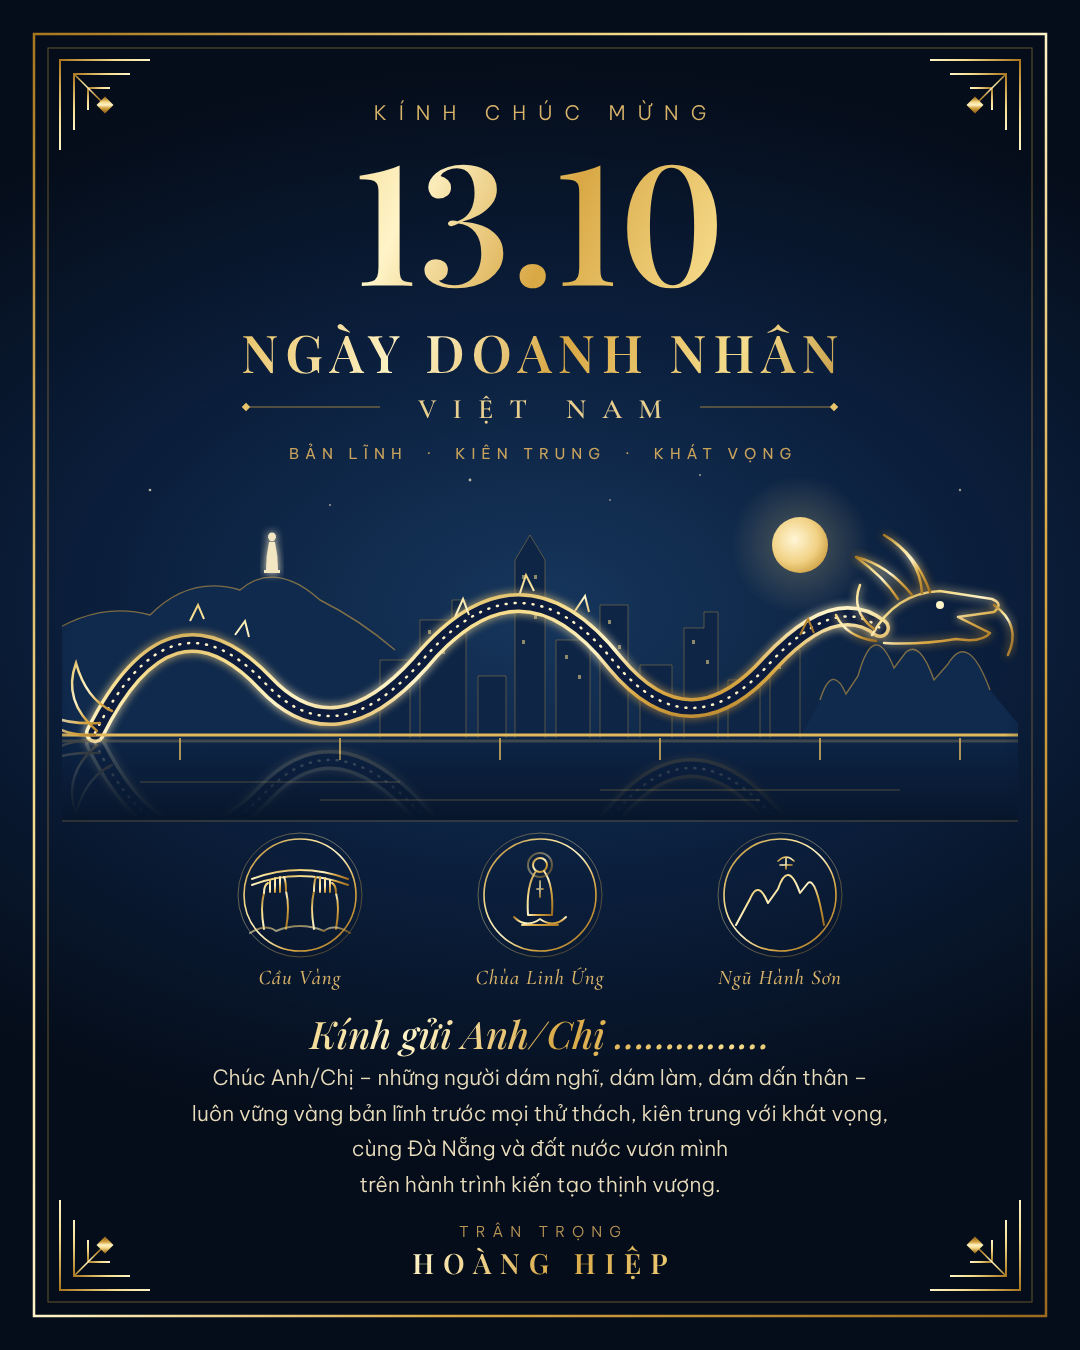
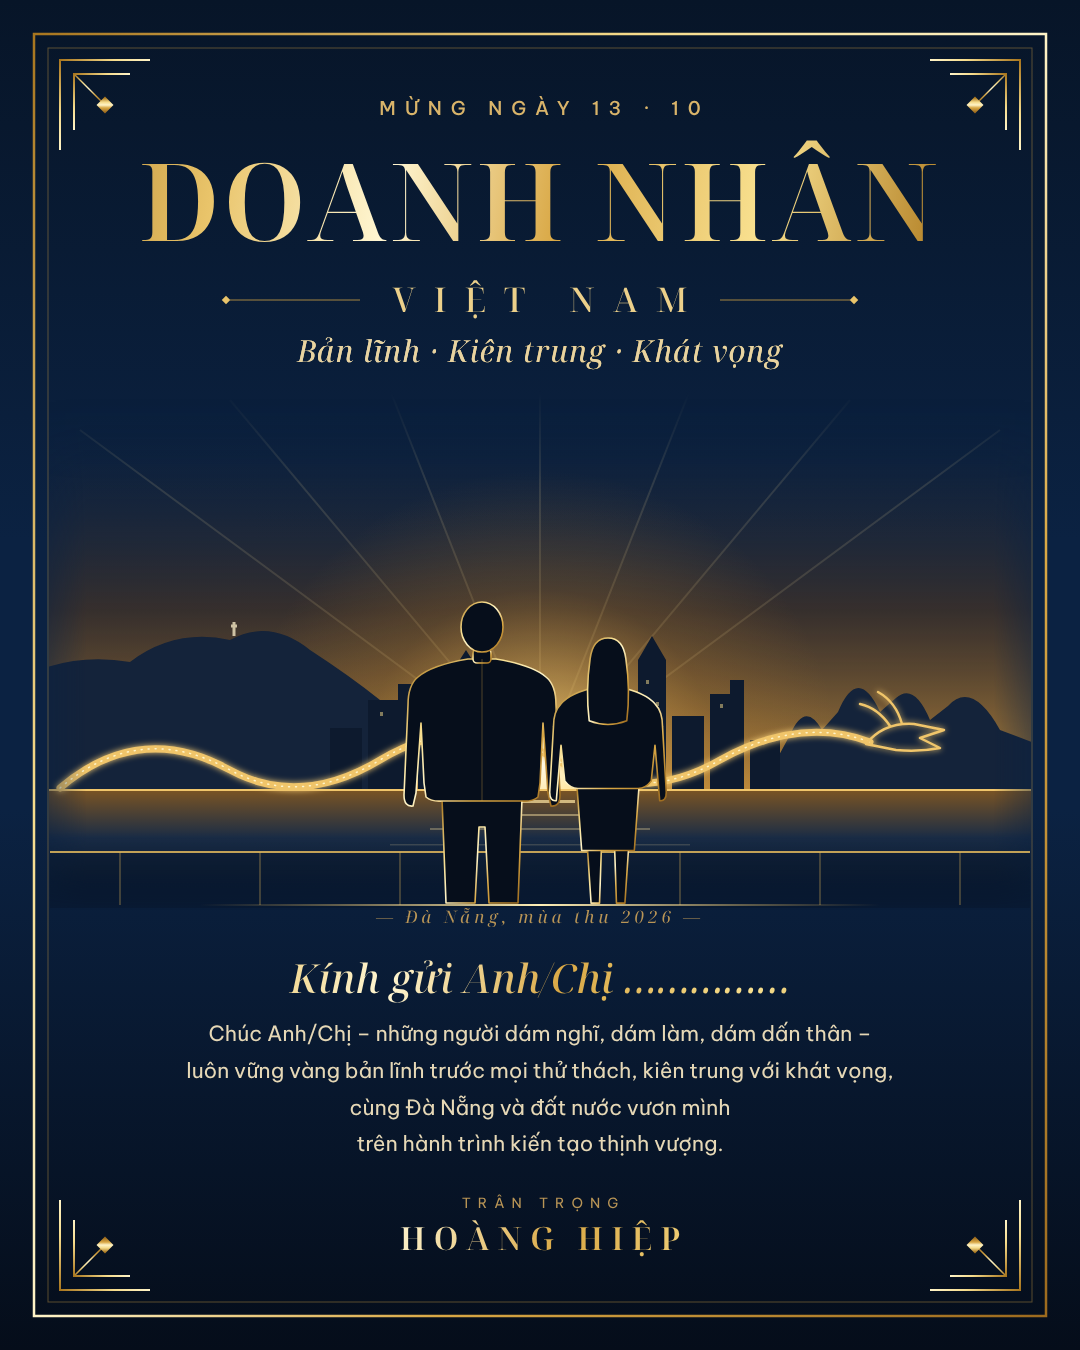
Thiệp 13/10: lấy doanh nhân làm trọng tâm, Đà Nẵng làm nền, đổi bộ chữ
Claude-Session: https://claude.ai/code/session_01Noi56VZ885EaUZ236ZNbAP

diff --git a/thiep/thiep-13-10.html b/thiep/thiep-13-10.html
@@ -1,145 +1,112 @@
 <!doctype html><html lang="vi"><head><meta charset="utf-8">
-<link href="https://fonts.googleapis.com/css2?family=Playfair+Display:ital,wght@0,500;0,600;0,700;1,500&family=Cormorant+Garamond:ital,wght@0,500;0,600;1,500&family=Be+Vietnam+Pro:wght@300;400&display=swap" rel="stylesheet">
+<link href="https://fonts.googleapis.com/css2?family=Noto+Serif+Display:ital,wght@0,500;0,600;0,700;1,400;1,500&family=Be+Vietnam+Pro:wght@400;500&display=swap" rel="stylesheet">
 <style>
 *{margin:0;padding:0;box-sizing:border-box}
-body{width:1080px;height:1350px;overflow:hidden;background:#06101f}
-.card{position:relative;width:1080px;height:1350px;overflow:hidden;color:#f4e3b2;
- background:radial-gradient(ellipse 80% 40% at 50% 45%,#16365c 0%,#0b1f3d 50%,#050d1a 100%)}
-.foil{background:linear-gradient(115deg,#9c6a1e 0%,#e9c46a 22%,#fff4c8 38%,#d9a845 52%,#f6dc8c 68%,#a8761f 85%,#e9c46a 100%);-webkit-background-clip:text;background-clip:text;color:transparent}
+body{width:1080px;height:1350px;overflow:hidden;background:#050d1a}
+.card{position:relative;width:1080px;height:1350px;overflow:hidden;color:#f4e3b2;background:linear-gradient(180deg,#071528 0%,#0b2242 40%,#0b2242 60%,#050d1a 100%)}
+.foil{background:linear-gradient(100deg,#a8761f 0%,#e9c46a 20%,#fff6d2 36%,#d9a845 52%,#f8e08f 70%,#b07d22 88%,#e9c46a 100%);-webkit-background-clip:text;background-clip:text;color:transparent}
 svg.bg{position:absolute;left:0;top:0}
 .c{position:absolute;width:100%;text-align:center}
-.kicker{top:100px;font-family:'Be Vietnam Pro',sans-serif;font-weight:300;font-size:20px;letter-spacing:12px;color:#d9b46a;padding-left:12px}
-.date{top:132px;font-family:'Playfair Display',serif;font-weight:600;font-size:168px;line-height:1;font-variant-numeric:lining-nums}
-.t1{top:318px;font-family:'Playfair Display',serif;font-weight:600;font-size:52px;letter-spacing:7px;padding-left:7px;line-height:1.3}
-.t2{top:392px;font-family:'Cormorant Garamond',serif;font-weight:600;font-size:28px;letter-spacing:16px;padding-left:16px;color:#e8cf8f}
-.slogan{top:444px;font-family:'Be Vietnam Pro',sans-serif;font-weight:400;font-size:15px;letter-spacing:6px;color:#c9a35c;padding-left:6px;white-space:pre}
-.lbl{position:absolute;width:200px;text-align:center;top:965px;font-family:'Cormorant Garamond',serif;font-style:italic;font-weight:500;font-size:21px;color:#d9b46a;letter-spacing:1px}
-.to{top:1008px;font-family:'Playfair Display',serif;font-style:italic;font-weight:500;font-size:38px}
-.msg{top:1060px;padding:0 110px;font-family:'Be Vietnam Pro',sans-serif;font-weight:300;font-size:21px;line-height:1.7;color:#e9dcbc}
-.s1{top:1222px;font-family:'Be Vietnam Pro',sans-serif;font-weight:300;font-size:15px;letter-spacing:7px;color:#b99556;padding-left:7px}
-.s2{top:1244px;font-family:'Playfair Display',serif;font-weight:600;font-size:30px;letter-spacing:9px;padding-left:9px;font-size:28px}
+.kicker{top:96px;font-family:'Be Vietnam Pro',sans-serif;font-weight:500;font-size:19px;letter-spacing:9px;color:#d9b46a;padding-left:9px}
+.h1{top:138px;font-family:'Noto Serif Display',serif;font-weight:600;font-size:108px;line-height:1.15;letter-spacing:3px}
+.h2{top:276px;font-family:'Noto Serif Display',serif;font-weight:500;font-size:34px;letter-spacing:18px;padding-left:18px;color:#ecd08a}
+.h3{top:330px;font-family:'Noto Serif Display',serif;font-style:italic;font-weight:400;font-size:30px;color:#e8d3a0;letter-spacing:1px}
+.place{top:905px;font-family:'Noto Serif Display',serif;font-style:italic;font-size:17px;letter-spacing:4px;color:#b99556}
+.to{top:950px;font-family:'Noto Serif Display',serif;font-style:italic;font-weight:500;font-size:40px}
+.msg{top:1016px;padding:0 120px;font-family:'Be Vietnam Pro',sans-serif;font-weight:400;font-size:21px;line-height:1.75;color:#e6d8b6}
+.s1{top:1194px;font-family:'Be Vietnam Pro',sans-serif;font-weight:400;font-size:14px;letter-spacing:7px;color:#b99556;padding-left:7px}
+.s2{top:1216px;font-family:'Noto Serif Display',serif;font-weight:600;font-size:32px;letter-spacing:8px;padding-left:8px}
 </style></head><body><div class="card">
 <svg class="bg" width="1080" height="1350" viewBox="0 0 1080 1350">
  <defs>
-  <linearGradient id="gold" x1="0" y1="0" x2="1" y2="1">
-   <stop offset="0" stop-color="#a8761f"/><stop offset=".3" stop-color="#f6dc8c"/><stop offset=".5" stop-color="#fff4c8"/><stop offset=".7" stop-color="#d9a845"/><stop offset="1" stop-color="#9c6a1e"/>
-  </linearGradient>
-  <linearGradient id="lineG" gradientUnits="userSpaceOnUse" x1="-170" y1="0" x2="170" y2="0"><stop offset="0" stop-color="#d9a845" stop-opacity="0"/><stop offset="1" stop-color="#f6dc8c"/></linearGradient>
-  <radialGradient id="moon" cx=".4" cy=".4" r=".7"><stop offset="0" stop-color="#fff6d6"/><stop offset=".6" stop-color="#f1d184"/><stop offset="1" stop-color="#c99a3c"/></radialGradient>
-  <radialGradient id="halo" cx=".5" cy=".5" r=".5"><stop offset="0" stop-color="#f6dc8c" stop-opacity=".28"/><stop offset="1" stop-color="#f6dc8c" stop-opacity="0"/></radialGradient>
-  <linearGradient id="water" x1="0" y1="0" x2="0" y2="1"><stop offset="0" stop-color="#0d2547"/><stop offset="1" stop-color="#071428"/></linearGradient>
-  <linearGradient id="fade" x1="0" y1="0" x2="0" y2="1"><stop offset="0" stop-color="#fff" stop-opacity=".5"/><stop offset="1" stop-color="#fff" stop-opacity="0"/></linearGradient>
-  <mask id="refl"><rect x="0" y="738" width="1080" height="80" fill="url(#fade)"/></mask>
-  <clipPath id="pano"><rect x="62" y="460" width="956" height="360"/></clipPath>
-  <filter id="glow" x="-20%" y="-50%" width="140%" height="200%"><feGaussianBlur stdDeviation="4" result="b"/><feMerge><feMergeNode in="b"/><feMergeNode in="SourceGraphic"/></feMerge></filter>
-  <linearGradient id="panoFade" x1="0" y1="0" x2="1" y2="0"><stop offset="0" stop-color="#fff" stop-opacity="0"/><stop offset=".07" stop-color="#fff"/><stop offset=".93" stop-color="#fff"/><stop offset="1" stop-color="#fff" stop-opacity="0"/></linearGradient>
-  <mask id="pm"><rect x="0" y="0" width="1080" height="1350" fill="url(#panoFade)"/></mask>
-  <g id="corner" fill="none" stroke="url(#gold)" stroke-width="2">
-   <path d="M0 90 V0 H90"/><path d="M14 70 V14 H70"/><path d="M28 50 V28 H50"/>
-   <path d="M14 14 L44 44" stroke-width="1.5"/><rect x="40" y="40" width="10" height="10" transform="rotate(45 45 45)" fill="url(#gold)"/>
-  </g>
-  <path id="bp" d="M95 733 Q170 583 265 683 Q335 758 420 663 Q520 543 615 663 Q690 753 770 663 Q835 593 880 628"/>
+  <linearGradient id="gold" x1="0" y1="0" x2="1" y2="1"><stop offset="0" stop-color="#a8761f"/><stop offset=".3" stop-color="#f6dc8c"/><stop offset=".5" stop-color="#fff4c8"/><stop offset=".7" stop-color="#d9a845"/><stop offset="1" stop-color="#9c6a1e"/></linearGradient>
+  <linearGradient id="sky" x1="0" y1="0" x2="0" y2="1"><stop offset="0" stop-color="#0b2242" stop-opacity="0"/><stop offset=".55" stop-color="#5a3a1c" stop-opacity=".55"/><stop offset="1" stop-color="#d79a3c" stop-opacity=".85"/></linearGradient>
+  <radialGradient id="sunGlow" cx=".5" cy=".5" r=".5"><stop offset="0" stop-color="#ffe7a3" stop-opacity=".95"/><stop offset=".25" stop-color="#f3c364" stop-opacity=".55"/><stop offset=".6" stop-color="#d48f2c" stop-opacity=".18"/><stop offset="1" stop-color="#d48f2c" stop-opacity="0"/></radialGradient>
+  <radialGradient id="sun" cx=".5" cy=".45" r=".6"><stop offset="0" stop-color="#fffbe8"/><stop offset=".7" stop-color="#ffe08a"/><stop offset="1" stop-color="#f0b84c"/></radialGradient>
+  <linearGradient id="water" x1="0" y1="0" x2="0" y2="1"><stop offset="0" stop-color="#7a5424"/><stop offset=".4" stop-color="#1a2c45"/><stop offset="1" stop-color="#050d1a"/></linearGradient>
+  <linearGradient id="hl" gradientUnits="userSpaceOnUse" x1="200" y1="0" x2="880" y2="0"><stop offset="0" stop-color="#d9a845" stop-opacity="0"/><stop offset=".5" stop-color="#fff0b8"/><stop offset="1" stop-color="#d9a845" stop-opacity="0"/></linearGradient>
+  <linearGradient id="sideFade" x1="0" y1="0" x2="1" y2="0"><stop offset="0" stop-color="#fff" stop-opacity="0"/><stop offset=".08" stop-color="#fff"/><stop offset=".92" stop-color="#fff"/><stop offset="1" stop-color="#fff" stop-opacity="0"/></linearGradient>
+  <linearGradient id="topFade" x1="0" y1="0" x2="0" y2="1"><stop offset="0" stop-color="#fff" stop-opacity="0"/><stop offset=".18" stop-color="#fff"/><stop offset=".85" stop-color="#fff"/><stop offset="1" stop-color="#fff" stop-opacity="0"/></linearGradient>
+  <clipPath id="inner"><rect x="49" y="49" width="982" height="1252"/></clipPath>
+  <mask id="m1"><rect x="0" y="0" width="1080" height="1350" fill="url(#sideFade)"/></mask>
+  <mask id="m2"><rect x="0" y="390" width="1080" height="520" fill="url(#topFade)"/></mask>
+  <filter id="glow" x="-10%" y="-60%" width="120%" height="220%"><feGaussianBlur stdDeviation="3" result="b"/><feMerge><feMergeNode in="b"/><feMergeNode in="SourceGraphic"/></feMerge></filter>
+  <g id="corner" fill="none" stroke="url(#gold)" stroke-width="2"><path d="M0 90 V0 H90"/><path d="M14 70 V14 H70"/><path d="M14 14 L44 44" stroke-width="1.5"/><rect x="40" y="40" width="10" height="10" transform="rotate(45 45 45)" fill="url(#gold)"/></g>
  </defs>
 
+ <!-- ===== CANH: binh minh tren Da Nang ===== -->
+ <g clip-path="url(#inner)"><g mask="url(#m2)"><g mask="url(#m1)">
+  <rect x="0" y="390" width="1080" height="400" fill="url(#sky)"/>
+  <!-- tia nang -->
+  <g stroke="#ffe7a3" stroke-opacity=".13" stroke-width="2">
+   <line x1="540" y1="770" x2="80" y2="430"/><line x1="540" y1="770" x2="230" y2="400"/><line x1="540" y1="770" x2="390" y2="390"/><line x1="540" y1="770" x2="540" y2="380"/>
+   <line x1="540" y1="770" x2="690" y2="390"/><line x1="540" y1="770" x2="850" y2="400"/><line x1="540" y1="770" x2="1000" y2="430"/>
+  </g>
+  <circle cx="540" cy="770" r="300" fill="url(#sunGlow)"/>
+  <circle cx="540" cy="770" r="62" fill="url(#sun)"/>
+  <!-- Son Tra + Phat Ba (xa) -->
+  <path d="M0 790 L0 690 Q60 650 130 662 Q175 628 230 640 Q270 618 310 650 Q350 676 380 700 L400 790 Z" fill="#14233a"/>
+  <path d="M234 636 v-14 M231 626 h6" stroke="#f3e6c2" stroke-width="3" opacity=".8"/>
+  <!-- Ngu Hanh Son (xa) -->
+  <path d="M760 790 L790 735 Q805 700 822 730 L838 712 Q858 664 880 712 L896 698 Q914 682 930 720 L948 706 Q972 680 1000 730 L1080 760 L1080 790 Z" fill="#14233a"/>
+  <!-- pho thi -->
+  <g fill="#0d1a2e">
+   <path d="M330 790 V728 H362 V790 Z M368 790 V700 H398 V684 H412 V790 Z M418 790 V744 H446 V790 Z M452 790 V672 L466 650 L480 672 V790 Z M600 790 V690 H632 V790 Z M638 790 V660 L652 636 L666 660 V790 Z M672 790 V716 H704 V790 Z M710 790 V694 H730 V680 H744 V790 Z M750 790 V740 H780 V790 Z"/>
+  </g>
+  <g fill="#f6dc8c" opacity=".5"><rect x="460" y="690" width="3" height="4"/><rect x="470" y="710" width="3" height="4"/><rect x="646" y="680" width="3" height="4"/><rect x="656" y="702" width="3" height="4"/><rect x="380" y="712" width="3" height="4"/><rect x="612" y="712" width="3" height="4"/><rect x="720" y="704" width="3" height="4"/></g>
+  <!-- song Han -->
+  <rect x="0" y="790" width="1080" height="120" fill="url(#water)"/>
+  <rect x="505" y="800" width="70" height="3" fill="#ffe7a3" opacity=".7"/><rect x="470" y="814" width="140" height="2" fill="#ffe7a3" opacity=".45"/><rect x="430" y="828" width="220" height="2" fill="#ffe7a3" opacity=".3"/><rect x="390" y="844" width="300" height="1.5" fill="#ffe7a3" opacity=".2"/>
+  <!-- Cau Rong (vang, nho phia sau) -->
+  <g filter="url(#glow)" fill="none" stroke-linecap="round">
+   <path d="M60 788 Q140 720 230 770 Q300 808 380 760 Q470 706 560 762 Q640 806 720 760 Q800 716 870 742" stroke="#f0c56a" stroke-width="7"/>
+   <path d="M60 788 Q140 720 230 770 Q300 808 380 760 Q470 706 560 762 Q640 806 720 760 Q800 716 870 742" stroke="#fff4c8" stroke-width="1.5" stroke-dasharray="1 6"/>
+   <path d="M866 744 Q884 722 914 724 L944 730 L920 738 L940 748 Q920 752 896 750 Z M890 726 Q878 708 860 704 M902 724 Q896 702 878 692" stroke="#f0c56a" stroke-width="2.5" stroke-linejoin="round"/>
+  </g>
+  <line x1="40" y1="790" x2="1040" y2="790" stroke="#f0c56a" stroke-width="2"/>
+ </g></g>
+ <!-- lan can kinh san thuong -->
+ <rect x="50" y="852" width="980" height="56" fill="#050d1a" opacity=".22"/>
+ <line x1="50" y1="852" x2="1030" y2="852" stroke="#e2b95c" stroke-width="2" opacity=".85"/>
+ <g stroke="#e2b95c" stroke-opacity=".45" stroke-width="1.2"><line x1="120" y1="852" x2="120" y2="905"/><line x1="260" y1="852" x2="260" y2="905"/><line x1="400" y1="852" x2="400" y2="905"/><line x1="680" y1="852" x2="680" y2="905"/><line x1="820" y1="852" x2="820" y2="905"/><line x1="960" y1="852" x2="960" y2="905"/></g>
+ </g>
+
+ <!-- ===== HAI DOANH NHAN (dang sau, nhin ve binh minh) ===== -->
+ <!-- san thuong + lan can -->
+ <path d="M150 905 L930 905" stroke="url(#hl)" stroke-width="2"/>
+ <g transform="translate(482 905)">
+  <g fill="#060e1b" stroke="url(#gold)" stroke-width="1.6" stroke-linejoin="round">
+   <path d="M-40 -106 L-36 -2 L-7 -2 L-3 -78 L3 -78 L7 -2 L36 -2 L40 -106 Z"/>
+   <path d="M-14 -246 L14 -246 Q50 -240 64 -228 Q74 -220 74 -200 L78 -110 Q78 -98 69 -99 L66 -112 L61 -182 L58 -122 L56 -108 Q50 -103 40 -104 L-40 -104 Q-50 -103 -56 -108 L-58 -122 L-61 -182 L-66 -112 L-69 -99 Q-78 -98 -78 -110 L-74 -200 Q-74 -220 -64 -228 Q-50 -240 -14 -246 Z"/>
+   <rect x="-9" y="-256" width="18" height="14" rx="4"/>
+   <ellipse cx="0" cy="-278" rx="21" ry="25"/>
+  </g>
+  <path d="M0 -246 V-104" stroke="#d9a845" stroke-opacity=".35" stroke-width="1"/>
+ </g>
+ <g transform="translate(608 905) scale(.94)">
+  <g fill="#060e1b" stroke="url(#gold)" stroke-width="1.7" stroke-linejoin="round">
+   <path d="M-22 -62 L-18 -2 L-9 -2 L-7 -62 Z M22 -62 L18 -2 L9 -2 L7 -62 Z"/>
+   <path d="M-33 -126 L-28 -58 L28 -58 L33 -126 Z"/>
+   <path d="M-12 -232 L12 -232 Q40 -226 50 -214 Q58 -206 58 -190 L62 -120 Q62 -110 55 -111 L50 -170 L46 -132 Q40 -124 32 -124 L-32 -124 Q-40 -124 -46 -132 L-50 -170 L-55 -111 Q-62 -110 -62 -120 L-58 -190 Q-58 -206 -50 -214 Q-40 -226 -12 -232 Z"/>
+   <ellipse cx="0" cy="-256" rx="18" ry="22"/>
+   <path d="M-19 -262 Q-24 -228 -20 -196 Q0 -188 20 -196 Q24 -228 19 -262 Q16 -284 0 -284 Q-16 -284 -19 -262 Z"/>
+  </g>
+ </g>
  <!-- khung -->
  <rect x="34" y="34" width="1012" height="1282" fill="none" stroke="url(#gold)" stroke-width="2.5"/>
- <rect x="48" y="48" width="984" height="1254" fill="none" stroke="#d9a845" stroke-opacity=".45" stroke-width="1"/>
+ <rect x="48" y="48" width="984" height="1254" fill="none" stroke="#d9a845" stroke-opacity=".4" stroke-width="1"/>
  <use href="#corner" transform="translate(60 60)"/><use href="#corner" transform="translate(1020 60) scale(-1 1)"/>
  <use href="#corner" transform="translate(60 1290) scale(1 -1)"/><use href="#corner" transform="translate(1020 1290) scale(-1 -1)"/>
- <!-- 2 vach hai ben VIET NAM -->
- <g transform="translate(540 407)" stroke-width="1.3">
-  <line x1="-330" y1="0" x2="-160" y2="0" stroke="url(#lineG)" transform="translate(-170 0)" />
- </g>
- <line x1="250" y1="407" x2="380" y2="407" stroke="#d9a845" stroke-opacity=".7"/><line x1="700" y1="407" x2="830" y2="407" stroke="#d9a845" stroke-opacity=".7"/>
- <rect x="243" y="404" width="6" height="6" transform="rotate(45 246 407)" fill="#e9c46a"/><rect x="831" y="404" width="6" height="6" transform="rotate(45 834 407)" fill="#e9c46a"/>
-
- <!-- ================= TOAN CANH DA NANG ================= -->
- <g clip-path="url(#pano)" mask="url(#pm)">
-  <!-- sao -->
-  <g fill="#fff4c8"><circle cx="150" cy="490" r="1.3" opacity=".7"/><circle cx="330" cy="505" r="1" opacity=".6"/><circle cx="470" cy="480" r="1.4" opacity=".7"/><circle cx="610" cy="500" r="1" opacity=".5"/><circle cx="960" cy="490" r="1.2" opacity=".6"/><circle cx="700" cy="475" r="1" opacity=".6"/></g>
-  <!-- trang -->
-  <circle cx="800" cy="545" r="70" fill="url(#halo)"/>
-  <circle cx="800" cy="545" r="28" fill="url(#moon)"/>
-  <!-- ban dao Son Tra + tuong Phat Ba Quan Am (chua Linh Ung) -->
-  <path d="M40 738 L40 640 Q95 600 150 615 Q190 575 240 590 Q275 560 320 600 Q360 620 395 650 L430 738 Z" fill="#102a4d"/>
-  <path d="M40 640 Q95 600 150 615 Q190 575 240 590 Q275 560 320 600 Q360 620 395 650" fill="none" stroke="#d9a845" stroke-opacity=".55" stroke-width="1.4"/>
-  <g transform="translate(272 566)" fill="#f3e6c2" filter="url(#glow)">
-   <path d="M-2 -26 a4 4 0 1 1 4 0 Z"/><circle cx="0" cy="-28" r="3.2"/>
-   <path d="M-3 -24 Q-6 -10 -6 4 L6 4 Q6 -10 3 -24 Z"/><rect x="-8" y="4" width="16" height="3"/>
-  </g>
-  <!-- Ngu Hanh Son -->
-  <path d="M800 738 L820 700 Q832 662 846 694 L858 676 Q874 618 894 668 L906 652 Q920 640 934 680 L948 664 Q968 630 990 690 L1030 738 Z" fill="#102a4d"/>
-  <path d="M820 700 Q832 662 846 694 L858 676 Q874 618 894 668 L906 652 Q920 640 934 680 L948 664 Q968 630 990 690" fill="none" stroke="#d9a845" stroke-opacity=".55" stroke-width="1.4"/>
-  <!-- thanh pho -->
-  <g fill="#0e2546" stroke="#d9a845" stroke-opacity=".35" stroke-width="1">
-   <path d="M380 738 V660 H410 V738 M420 738 V620 H452 V600 H466 V738 M478 738 V676 H506 V738 M515 738 V560 L530 535 L545 560 V738 M556 738 V640 H590 V738 M600 738 V605 H628 V738 M640 738 V665 H672 V738 M684 738 V628 H704 V612 H718 V738 M728 738 V680 H760 V738 M770 738 V650 H800 V738"/>
-  </g>
-  <g fill="#f6dc8c" opacity=".55">
-   <rect x="522" y="575" width="3" height="4"/><rect x="534" y="575" width="3" height="4"/><rect x="522" y="595" width="3" height="4"/><rect x="534" y="615" width="3" height="4"/><rect x="522" y="640" width="3" height="4"/>
-   <rect x="428" y="630" width="3" height="4"/><rect x="442" y="650" width="3" height="4"/><rect x="608" y="620" width="3" height="4"/><rect x="618" y="645" width="3" height="4"/>
-   <rect x="565" y="655" width="3" height="4"/><rect x="578" y="675" width="3" height="4"/><rect x="692" y="640" width="3" height="4"/><rect x="706" y="660" width="3" height="4"/><rect x="778" y="665" width="3" height="4"/>
-  </g>
-  <!-- song Han -->
-  <rect x="0" y="738" width="1080" height="90" fill="url(#water)"/>
-  <!-- CAU RONG -->
-  <g id="bridge">
-   <g filter="url(#glow)">
-    <use href="#bp" fill="none" stroke="url(#gold)" stroke-width="20" stroke-linecap="round"/>
-    <use href="#bp" fill="none" stroke="#0b1f3d" stroke-width="13" stroke-linecap="round"/>
-    <use href="#bp" fill="none" stroke="#fff4c8" stroke-width="2.5" stroke-dasharray="1 8" stroke-linecap="round"/>
-   </g>
-   <path d="M190 621 l8 -16 l6 14 M235 635 l10 -14 l4 16 M455 617 l8 -18 l6 16 M520 593 l6 -18 l8 16 M575 611 l10 -15 l4 16 M800 635 l8 -16 l6 14" fill="none" stroke="url(#gold)" stroke-width="2"/>
-   <line x1="60" y1="735" x2="1020" y2="735" stroke="#e2b95c" stroke-width="3"/>
-   <g stroke="#e2b95c" stroke-width="1.5"><line x1="180" y1="738" x2="180" y2="760"/><line x1="340" y1="738" x2="340" y2="760"/><line x1="500" y1="738" x2="500" y2="760"/><line x1="660" y1="738" x2="660" y2="760"/><line x1="820" y1="738" x2="820" y2="760"/><line x1="960" y1="738" x2="960" y2="760"/></g>
-   <path d="M97 731 Q62 701 76 663 Q86 699 112 711 M95 735 Q58 737 44 715 Q72 725 100 723" fill="none" stroke="url(#gold)" stroke-width="2.5" stroke-linecap="round"/>
-   <g fill="none" stroke="url(#gold)" stroke-width="2.5" stroke-linejoin="round" stroke-linecap="round" filter="url(#glow)">
-    <path d="M872 635 Q895 593 940 591 L992 599 Q1004 604 994 612 L958 617 L990 633 Q982 643 956 639 Q920 645 884 643"/>
-    <path d="M912 595 Q888 565 856 557 Q884 577 898 599"/><path d="M930 592 Q916 553 884 535 Q920 557 922 593"/>
-    <path d="M876 641 Q846 637 836 615 M874 629 Q850 611 860 585"/><path d="M994 605 Q1022 625 1008 655"/>
-   </g>
-   <circle cx="940" cy="605" r="4" fill="#fff4c8"/>
-  </g>
-  <g mask="url(#refl)" opacity=".5"><use href="#bridge" transform="translate(0 1476) scale(1 -1)"/></g>
-  <g stroke="#e2b95c" opacity=".3"><line x1="140" y1="782" x2="400" y2="782"/><line x1="600" y1="790" x2="900" y2="790"/><line x1="320" y1="800" x2="760" y2="800"/></g>
- </g>
- <line x1="62" y1="821" x2="1018" y2="821" stroke="#d9a845" stroke-opacity=".35"/>
-
- <!-- ================= 3 HUY HIEU DIA DANH ================= -->
- <g fill="none" stroke="url(#gold)" stroke-width="1.6">
-  <circle cx="300" cy="895" r="56"/><circle cx="300" cy="895" r="62" stroke-opacity=".4" stroke-width="1"/>
-  <circle cx="540" cy="895" r="56"/><circle cx="540" cy="895" r="62" stroke-opacity=".4" stroke-width="1"/>
-  <circle cx="780" cy="895" r="56"/><circle cx="780" cy="895" r="62" stroke-opacity=".4" stroke-width="1"/>
- </g>
- <!-- Cau Vang (doi ban tay nang cau) -->
- <g transform="translate(300 895)" fill="none" stroke="url(#gold)" stroke-width="2" stroke-linecap="round" stroke-linejoin="round">
-  <path d="M-48 -16 Q0 -34 48 -16"/><path d="M-48 -10 Q0 -28 48 -10"/>
-  <path d="M-36 34 Q-40 12 -36 -2 M-14 34 Q-10 12 -14 -4"/>
-  <path d="M-36 -2 Q-36 -10 -32 -12 M-30 -3 V-15 M-25 -3 V-17 M-20 -3 V-18 M-14 -4 Q-14 -14 -16 -18"/>
-  <path d="M36 34 Q40 12 36 -2 M14 34 Q10 12 14 -4"/>
-  <path d="M36 -2 Q36 -10 32 -12 M30 -3 V-15 M25 -3 V-17 M20 -3 V-18 M14 -4 Q14 -14 16 -18"/>
-  <path d="M-50 38 Q-34 28 -24 36 Q0 26 24 36 Q34 28 50 38" stroke-opacity=".6"/>
- </g>
- <!-- Phat Ba Linh Ung -->
- <g transform="translate(540 895)" fill="none" stroke="url(#gold)" stroke-width="2" stroke-linecap="round" stroke-linejoin="round">
-  <circle cx="0" cy="-30" r="7"/><path d="M-4 -24 Q-14 -10 -12 20 L12 20 Q14 -10 4 -24"/><path d="M-3 -6 L3 -6 M0 -14 V2" stroke-opacity=".7"/>
-  <path d="M-26 22 Q-14 34 0 24 Q14 34 26 22 M-18 30 H18"/><circle cx="0" cy="-30" r="12" stroke-opacity=".45"/>
- </g>
- <!-- Ngu Hanh Son + chua -->
- <g transform="translate(780 895)" fill="none" stroke="url(#gold)" stroke-width="2" stroke-linecap="round" stroke-linejoin="round">
-  <path d="M-44 30 L-30 4 Q-22 -16 -12 8 L-2 -6 Q8 -36 20 -2 L28 -12 Q36 -18 44 30"/>
-  <path d="M6 -26 L6 -38 M0 -30 H12 M-2 -34 Q6 -42 14 -34" stroke-width="1.6"/>
-  <path d="M-44 30 H44" stroke-opacity=".6"/>
- </g>
+ <!-- vach VIET NAM -->
+ <line x1="230" y1="300" x2="360" y2="300" stroke="#d9a845" stroke-opacity=".75"/><line x1="720" y1="300" x2="850" y2="300" stroke="#d9a845" stroke-opacity=".75"/>
+ <rect x="223" y="297" width="6" height="6" transform="rotate(45 226 300)" fill="#e9c46a"/><rect x="851" y="297" width="6" height="6" transform="rotate(45 854 300)" fill="#e9c46a"/>
 </svg>
 
-<div class="c kicker">KÍNH CHÚC MỪNG</div>
-<div class="c date foil">13.10</div>
-<div class="c t1 foil">NGÀY DOANH NHÂN</div>
-<div class="c t2">VIỆT NAM</div>
-<div class="c slogan">BẢN LĨNH  ·  KIÊN TRUNG  ·  KHÁT VỌNG</div>
-<div class="lbl" style="left:200px">Cầu Vàng</div>
-<div class="lbl" style="left:440px">Chùa Linh Ứng</div>
-<div class="lbl" style="left:680px">Ngũ Hành Sơn</div>
+<div class="c kicker">MỪNG NGÀY 13 · 10</div>
+<div class="c h1 foil">DOANH NHÂN</div>
+<div class="c h2">VIỆT NAM</div>
+<div class="c h3 foil">Bản lĩnh · Kiên trung · Khát vọng</div>
+<div class="c place">— Đà Nẵng, mùa thu 2026 —</div>
 <div class="c to foil" id="to">Kính gửi Anh/Chị ……………</div>
 <div class="c msg">Chúc Anh/Chị – những người dám nghĩ, dám làm, dám dấn thân –<br>luôn vững vàng bản lĩnh trước mọi thử thách, kiên trung với khát vọng,<br>cùng Đà Nẵng và đất nước vươn mình<br>trên hành trình kiến tạo thịnh vượng.</div>
 <div class="c s1">TRÂN TRỌNG</div>
